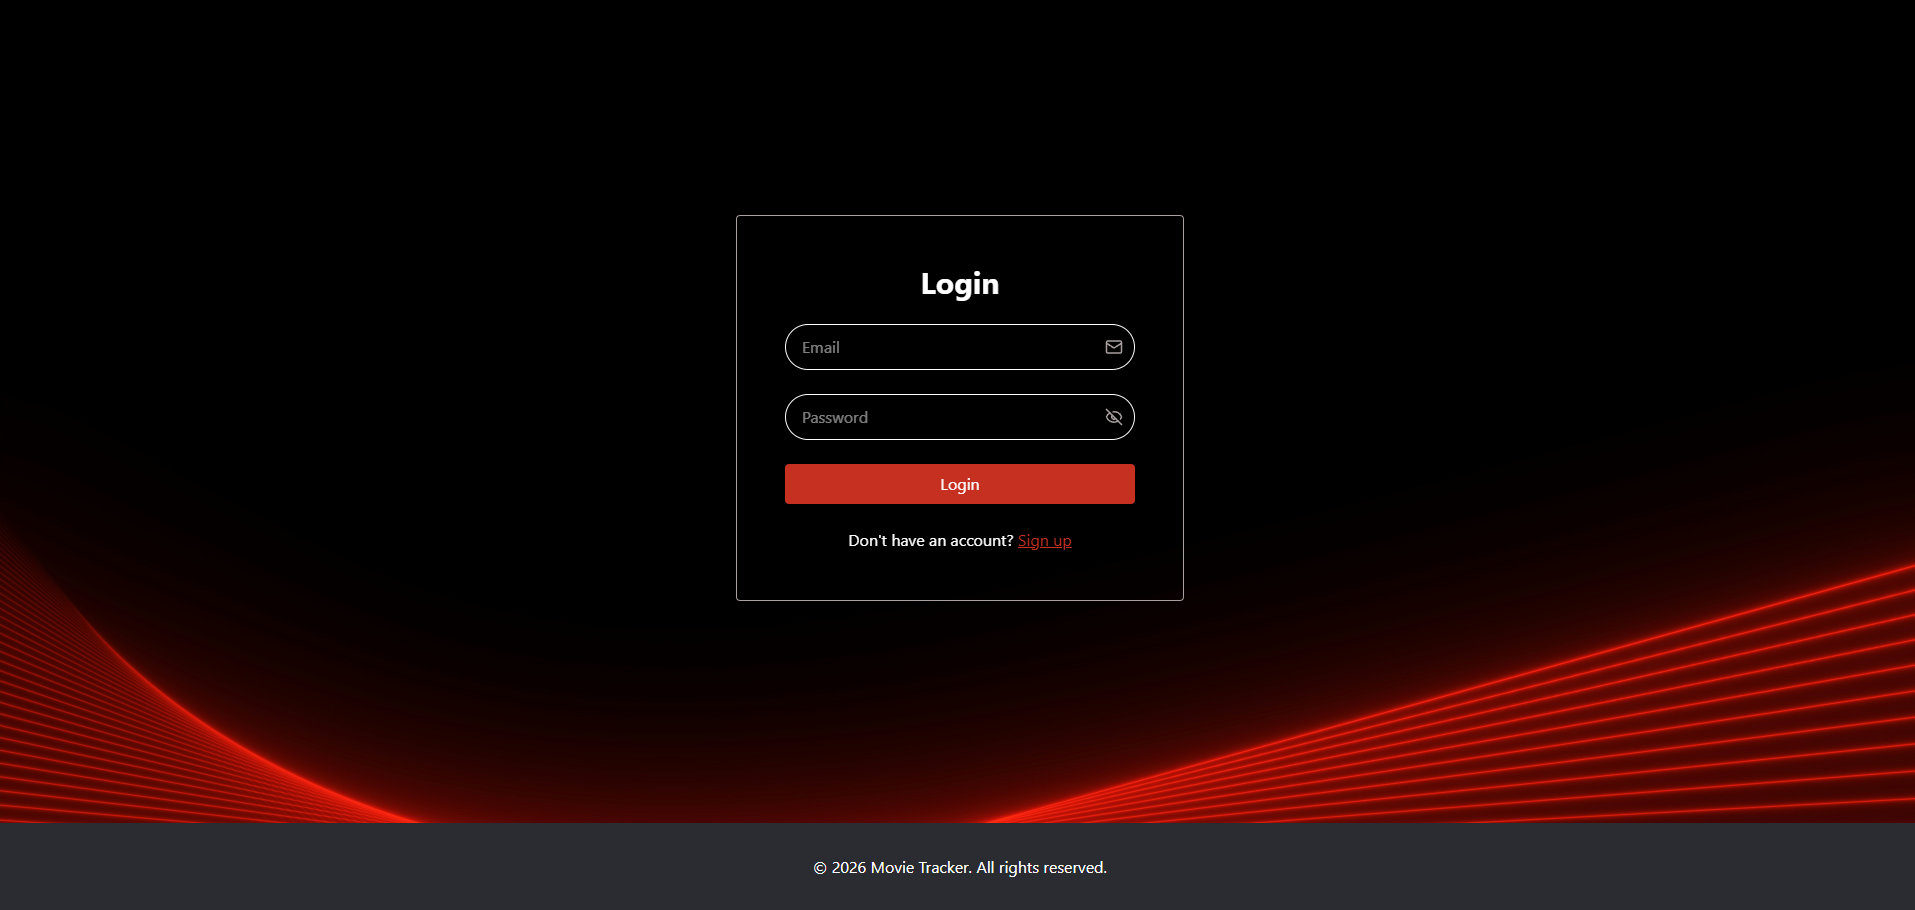
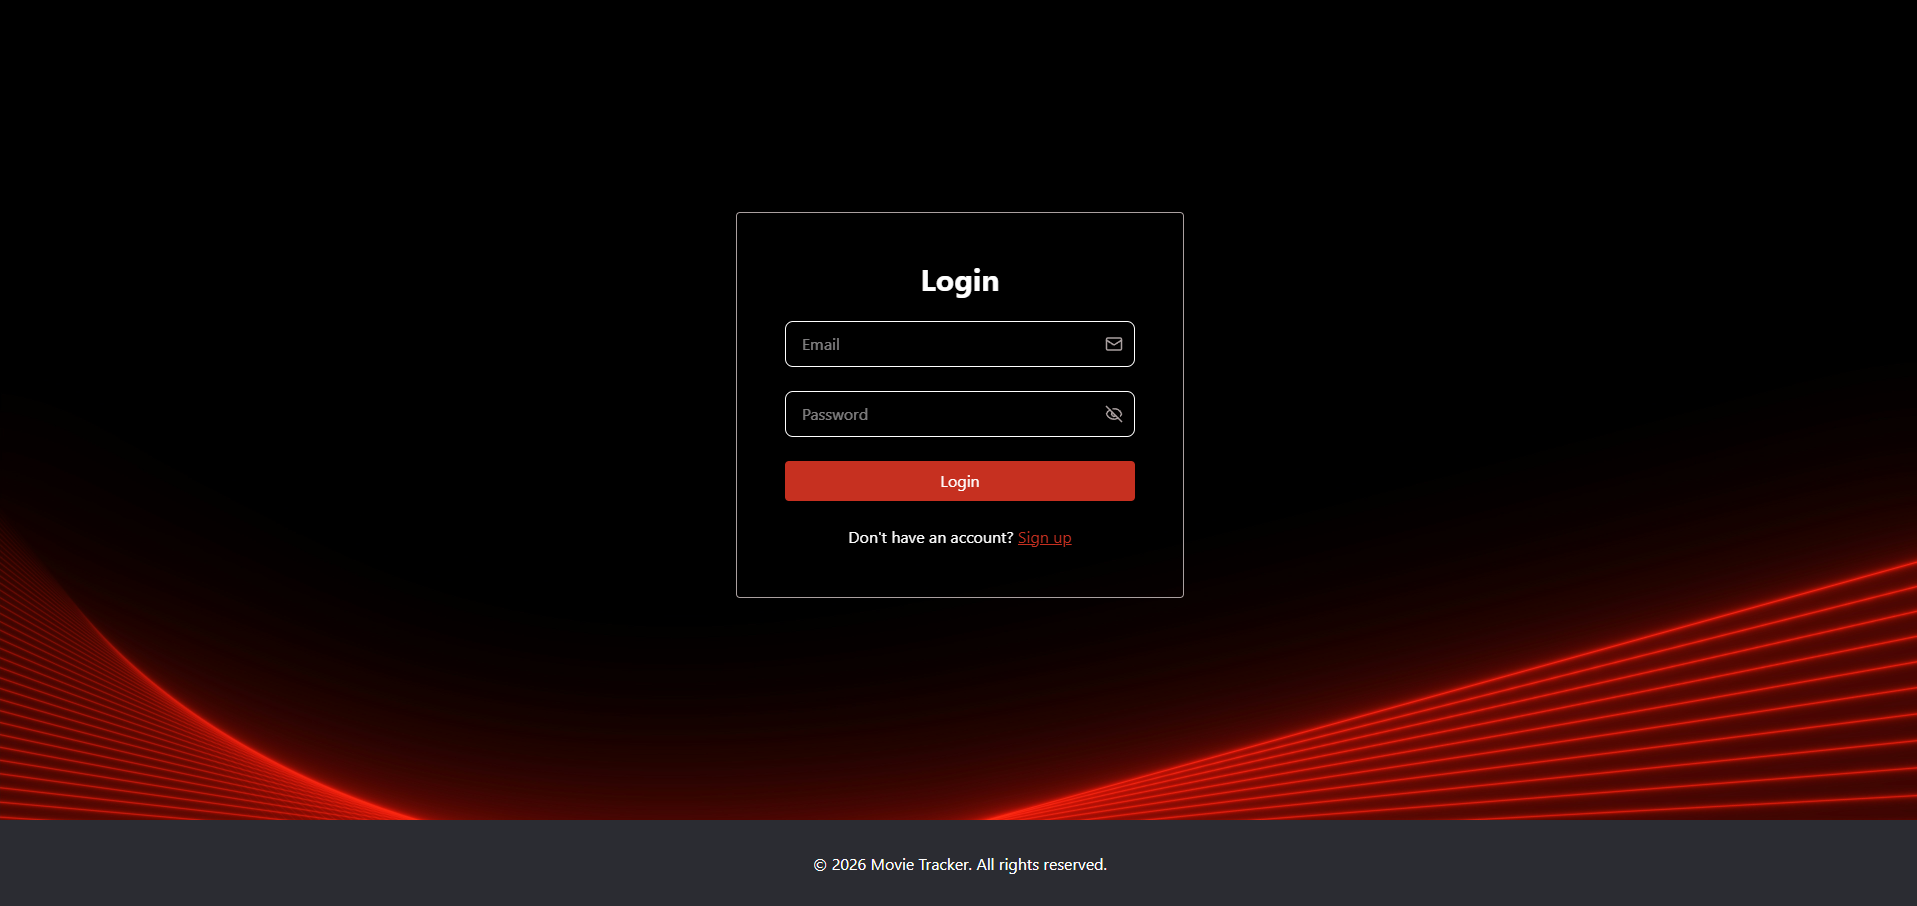
fix: unify input border-radius to rounded-lg across Login and Register pages

diff --git a/frontend/src/pages/LoginPage.tsx b/frontend/src/pages/LoginPage.tsx
@@ -79,7 +79,7 @@ const LoginPage = () => {
                   {...register("email")}
                   type="email"
                   placeholder="Email"
-                  className="w-full border rounded-full px-4 py-2.5 bg-transparent text-white text-base pr-10"
+                  className="w-full border rounded-lg px-4 py-2.5 bg-transparent text-white text-base pr-10"
               />
               <Mail className="absolute right-3 top-1/2 -translate-y-1/2 text-mt-light-gray" size={18} />
               {errors.email && (
@@ -87,7 +87,11 @@ const LoginPage = () => {
               )}
             </div>
             <div className="relative">
-              <PasswordInput placeholder="Password" registration={register("password")} />
+              <PasswordInput
+                  placeholder="Password"
+                  registration={register("password")}
+                  inputClassName="w-full border rounded-lg px-4 py-2.5 bg-transparent text-white text-base pr-10"
+              />
               {errors.password && (
                   <p className="text-mt-red text-sm mt-1">{errors.password.message}</p>
               )}
